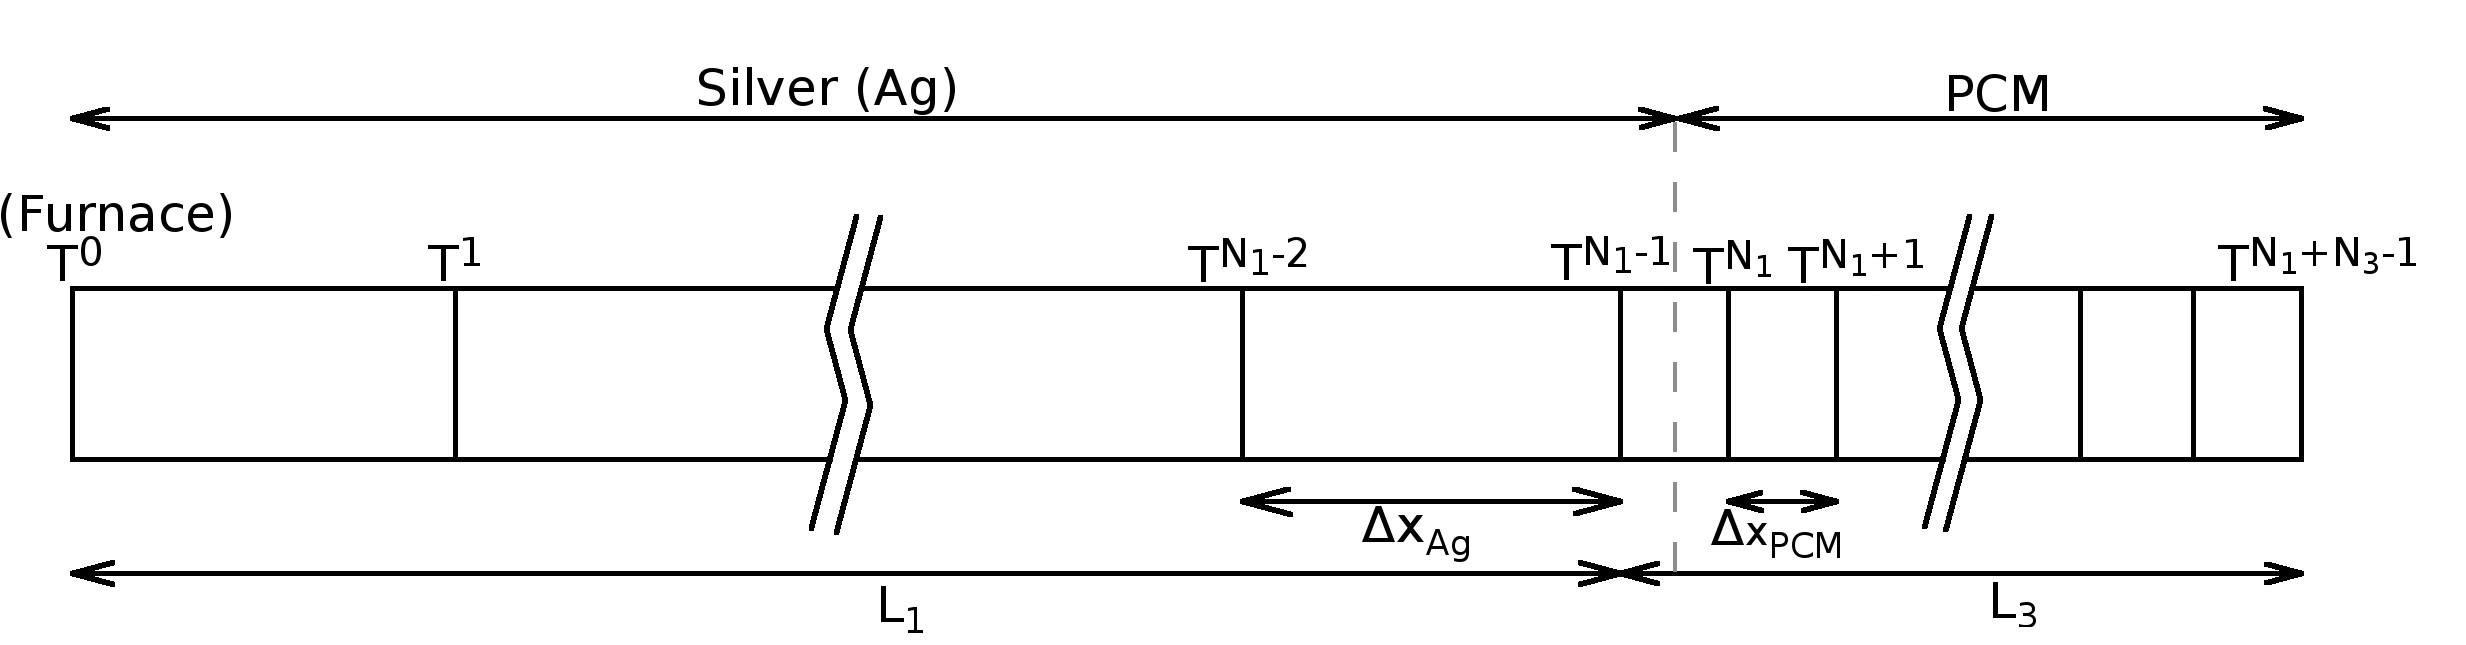
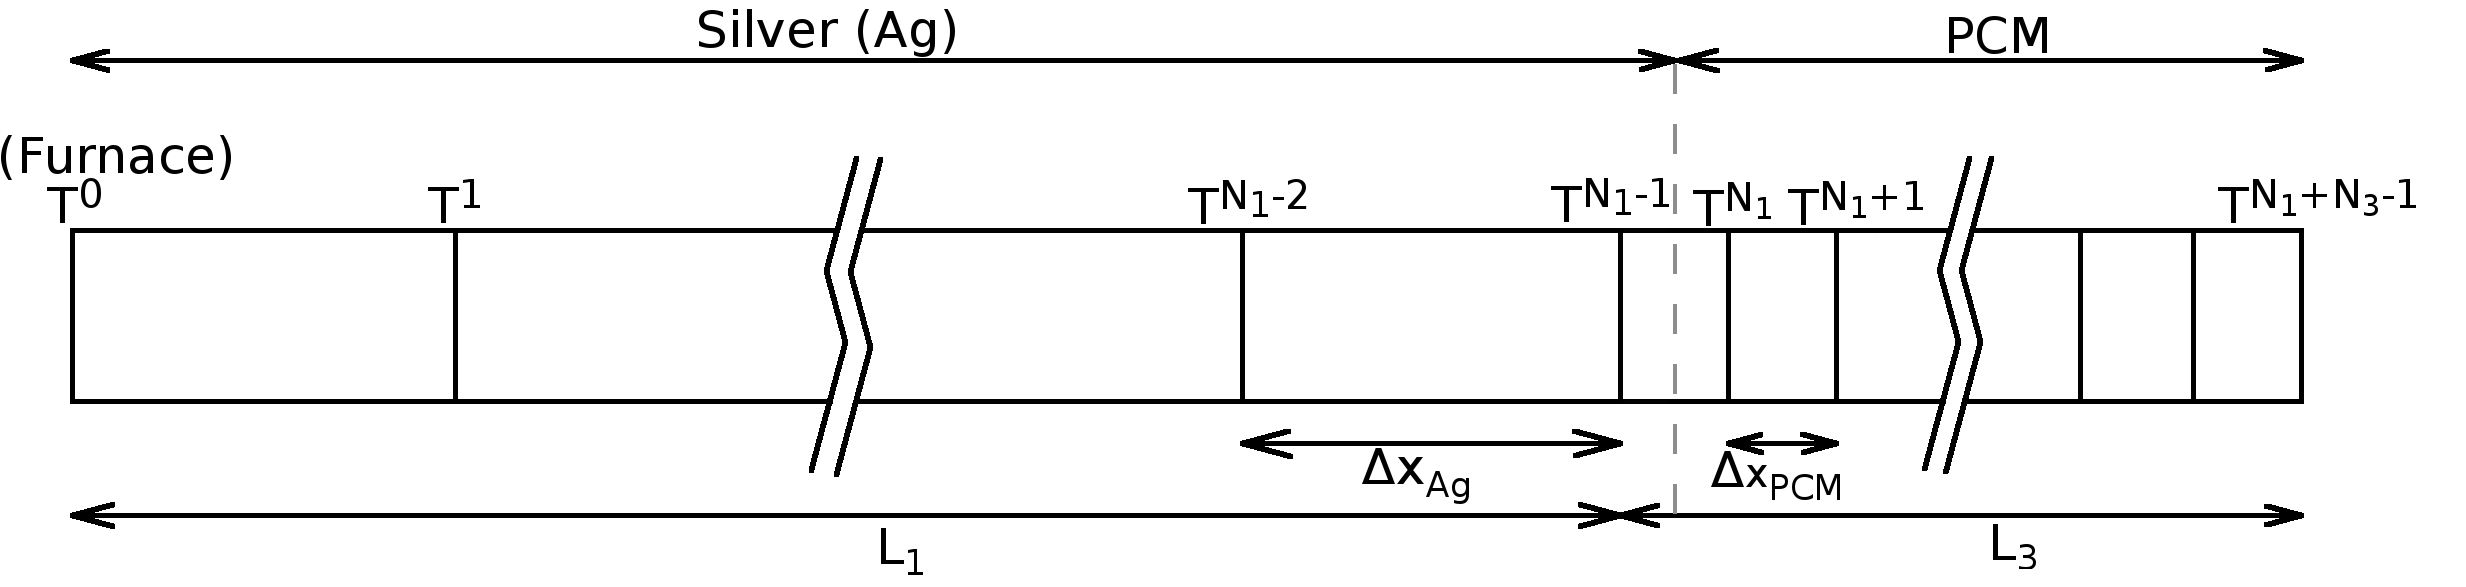
changed presentation a bit

diff --git a/vortrag/vortrag.tex b/vortrag/vortrag.tex
@@ -34,7 +34,7 @@
 \usetheme{Luebeck}
 \usecolortheme{orchid}
 
-\title[Current state of master thesis]{Parameter estimation of specific heat capacity $c_p$ at phase change using a model \\ of a heat flux DSC.}
+\title[Current state of master thesis]{Parameter estimation of specific heat capacity $c_p$ at phase change using a model \\ of a heat flux DSC}
 \subtitle{Current state of master thesis}
 
 \author{Jan Lammel}
@@ -89,11 +89,11 @@
 			$\rightarrow$ heat flux: $\varPhi_q$
 			\vspace{0.2cm} 
 			
-			\item specific heat capacity $c_p$, \qquad $[c_p] = \frac{J}{kg \cdot K}$ \\
-			Material property: Amount of energy needed to raise the temperature of $1kg$ by $1K$ \vspace{0.2cm}
-			
 			\item heat conductivity $\lambda$, \qquad $[\lambda] = \frac{W}{m \cdot K}$ \\
-			Material property: Amount of energy being transported on a distance of $1m$ (unit area) at a temperature difference of $1K$ in $1s$ 
+			Material property: Amount of energy being transported on a distance of $1m$ (unit area) at a temperature difference of $1K$ in $1s$  \vspace{0.2cm}
+			
+			\item specific heat capacity $c_p$, \qquad $[c_p] = \frac{J}{kg \cdot K}$ \\
+			Material property: Amount of energy needed to raise the temperature of $1kg$ by $1K$ 
 			
 		\end{itemize}
 	\end{textblock}
@@ -150,12 +150,12 @@
 \frame{
 	\frametitle{Mathematical model}
 	
-	\begin{textblock}{14}(1, 4.6)
+	\begin{textblock}{14}(1, 4)
 		\includegraphics[width=1.\textwidth]{/home/argo/masterarbeit/vortrag/images/discretization_grid.png}
 	\end{textblock}
 	
 	
-	\begin{textblock}{14}(1, 9.5)
+	\begin{textblock}{14}(1, 8.4)
 	
 		\begin{itemize}
 			\item Heat equation: \quad $\rho c_p(T(x,t)) \frac{\partial T}{\partial t}(x,t) = \nabla \cdot \left[ \lambda \cdot \nabla T(x,t) \right]$
@@ -166,6 +166,7 @@
 				\item No flux outside PCM
 				\end{itemize}
 			\item Reference and PCM side are independent
+			\item Spatial discretization by method of lines
 			
 		\end{itemize}
 	\end{textblock}
@@ -237,7 +238,6 @@
 	
 	\begin{textblock}{14}(1,5)
 		\begin{itemize}
-			\item Spatial discretization by method of lines
 			\item Software: SolvIND using integrator DAESOL-II \\ \vspace{0.15cm}
 			$\rightarrow$ Gives as well needed sensitivities $\frac{\partial T}{\partial p}$ for optimization \\
 			\qquad via IND forward mode
@@ -268,16 +268,16 @@
 
 
 \frame{
-	\frametitle{Measurement times computation}
+	\frametitle{Measurement time points computation}
 	
-	\begin{textblock}{8.5}(0.5,5)
-		\includegraphics[width=1.\textwidth]{/home/argo/masterarbeit/vortrag/images/measurement_time_computation.png}
+	\begin{textblock}{8.5}(0.35,5)
+		\includegraphics[width=1.\textwidth]{/home/argo/masterarbeit/vortrag/images/measurement_time_computation2.png}
 	\end{textblock}
 	
 	\begin{textblock}{6.8}(8.5,5.)
 	\begin{itemize}
 		\item Reference side $T_{ref}^{sim}(t)$ is solved analytically \\[2ex]
-		\item Given measurement values of reference temperatures $T_{ref}^{\eta_i}$ \\[1ex]
+		\item Given heat flux measurement values $\varPhi_q^{\eta_i} = \varPhi_q^{\eta_i}(T_{ref}^{\eta_i})$ \\[1ex]
 		$\rightarrow$ For fixed $T_0$ we can compute points in time $t_i$ where measurements were done using Newton's method
 	\end{itemize}
 	\end{textblock}
@@ -293,7 +293,7 @@
 
 	\begin{textblock}{10}(0.5,4.)
 	\begin{align*}
-		\min_{p_{c_p}} \ & \sum_{i=1}^{n_{MP}} \left|\left|  \Phi_{q}^{PCM,in}(T(t_i;T_0,p_{c_p})) - \Phi_q^{\eta_i} \right|\right|_2^2 \\
+		\min_{p_{c_p}} \ & \sum_{i=1}^{n_{MP}} \left|\left|  \varPhi_{q}^{PCM,in}(T(t_i;T_0,p_{c_p})) - \varPhi_q^{\eta_i} \right|\right|_2^2 \\
 		s.t. \ & \quad \  \dot{T} = f(T,t;p_{c_p}) \\
 		       & T(0) = T_0
 	\end{align*}
@@ -305,8 +305,8 @@
 	
 	\begin{textblock}{16}(0.3,9.4)
 	\begin{itemize}
-		\item $\eta_i^{\Phi}$: heat flux measurement value at time $t_i$
-		\item $\Phi_q^{\text{PCM,in}}$: heat flux into PCM from simulation \\
+		\item $\varPhi_q^{\eta_i}$: heat flux measurement value at time $t_i$
+		\item $\varPhi_q^{\text{PCM,in}}$: heat flux into PCM from simulation \\
 		\item $n_{MP}$: number of measurement points \\
 		\item $p_{c_p}$: optimization parameters specifying specific heat capacity $c_p(T)$ \\
 		\item $f(T,t;p_{c_p})$: discretized differential equation system from heat equation
@@ -483,9 +483,9 @@
 	
 	\begin{itemize}
 		\item Reason for shift in $c_p$ fits?
+		\item How to get $L_1$ and $L_3$ except as optimization variable?
 		\item Heat equation derivation with $\rho=\rho(T)$ correct? \\
 		$\rightarrow$ How to get enthalpy $h$?
-		\item How to get $L_1$ and $L_3$ except as optimization variable?
 	\end{itemize}
 	
 }

diff --git a/thesis/thesis.tex b/thesis/thesis.tex
@@ -628,31 +628,31 @@ where $F \in \mathbb{R}^{n_{MP}}$ is the residuum vector of the measurement poin
 \begin{figure}[H]
 	\centering
 	\begin{tikzpicture}
-	\begin{axis}[domain=0:35,
+	\begin{axis}[domain=0:65,
 	samples=100,
-	xmin=0, xmax=40,
+	xmin=0, xmax=70,
 	ymin=0.,	 
 	axis lines=left,
-	xtick={25},
+	xtick={40},
 	xticklabels={$t_i$},
-	ytick={0.7, 2.25},
+	ytick={0.7, 3.7},
 	yticklabels={$T_0$, $T_{ref}^{\eta_i}$},
 	xlabel=$time$, xlabel style={at=(current axis.right of origin), anchor=west},
 	ylabel=\empty
 	]
 	
 	\addplot+[color=black, mark=none] {0.7 + 0.1*x}
-	node[pos=0.95, below, sloped] {$T_{{furnace}}$};
+	node[pos=0.87, above, sloped] {$T_{{furnace}}$};
 	
 	\addplot+[color=black, mark=none] {0.7 + 0.1*x - (1 - exp(-0.11*x)}
 	node[pos=0.95, below, sloped] {$T_{{ref}}^{{sim}}$};
 	
 	\addplot[only marks, mark=x, color=black] 
-	table {25 2.25
+	table {40 3.7
 	};	
 	
-	\draw [loosely dashed] (0, 225) -- (250, 225);
-	\draw [loosely dashed] (250, 0) -- (250, 225);	
+	\draw [loosely dashed] (0, 370) -- (400, 370);
+	\draw [loosely dashed] (400, 0) -- (400, 370);	
 
 	\end{axis}
 	\end{tikzpicture}

diff --git a/code/param_estimation_mex.m b/code/param_estimation_mex.m
@@ -35,7 +35,7 @@ c_p_Const = 0.235;
 lambda_pcm = 0.96;   % [mW/(mm*K)]
 rho_pcm = 0.85;      % [mg/mm^3]
 
-heat_rate = 20.;     % [K/min]
+heat_rate = dsc.Tinfo.Tstep;     % [K/min]
 T_0 = 10.;           % Start temperature oven [degC]
 T_end = 200.;        % End temperature oven [degC]
 
@@ -107,6 +107,26 @@ end
 
 meas_data(:,2) = q_dsc;
 
+% %% Test: Get measurement times just from dsc data
+% [~,idx_0] = min(abs(dsc.data(:,1) - T_0));
+% [~,idx_1] = min(abs(dsc.data(:,1) - 29));
+% 
+% idx_0
+% idx_1
+% 
+% t_offset = dsc.data(idx_0,2);
+% 
+% t_meas = (dsc.data(idx_0:end,2) - t_offset) * 60;
+% 
+% % size(meas_data(:,1))
+% % size(t_meas)
+% 
+% meas_data(1:10)
+% t_meas(idx_1 - idx_0:idx_1 - idx_0 + 10)'
+% 
+% 
+% %%
+% return
 
 % Set optimization variables
 c_p_param_type = 'gauss_linear_comb';
